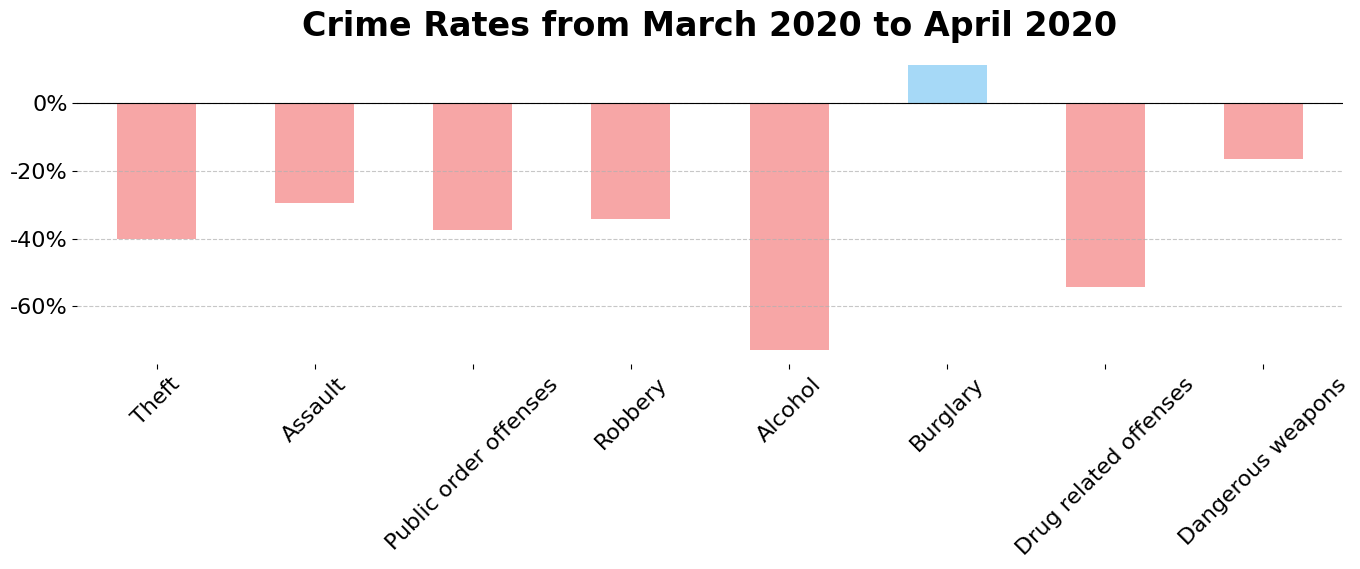
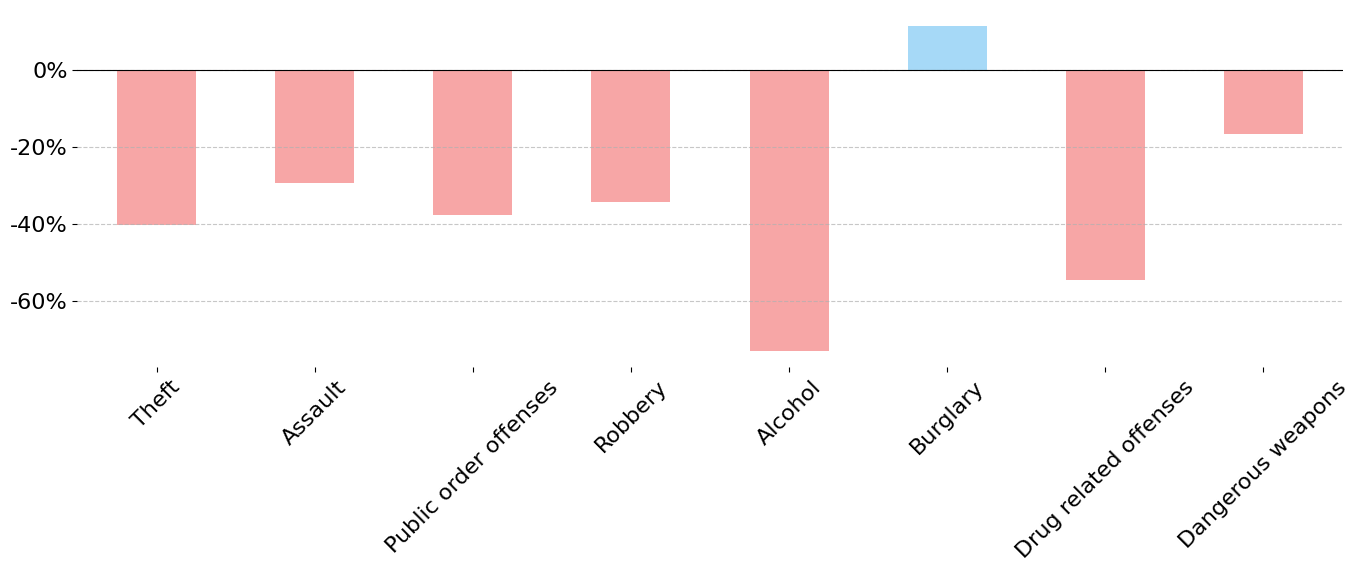
updates

diff --git a/assets/images/timeline/timeline.html b/assets/images/timeline/timeline.html
@@ -142,7 +142,10 @@
             padding-right: 30px;
             text-align: right;
         }
-        
+        div.img-header {
+            margin-bottom: 4px;
+            font-weight: 700;
+        }
         @media all and (max-width: 991px) {
         }
         @media all and (max-width: 768px) {
@@ -241,7 +244,8 @@
 				<div class="timeline-text d-flex-2">
 					<span>
 						<h6>April</h6> - The lockdown has an immediate impact on the crime rate in the city. Most criminal categories drop by 30 to 70 percent, while there is a small increase in burglaries.
-                        <div class="img" style="margin-top:20px"><img src="/assets/images/march-april.png"></div>
+                        <div class="img-header" style="margin-top:20px">Crime Rates from March 2020 to April 2020</div>
+                        <div class="img"><img src="/assets/images/march-april.png"></div>
 					</span>
 					<div class="t-square"></div>
 				</div>
@@ -262,7 +266,7 @@
 				<div class="timeline-blank">
                     <div style="padding-left:30px">
                         <span>
-                            <strong>Burglaries: May 20 to July 10 2020</strong>
+                            <div class="img-header">Burglaries: May 20 to July 10 2020</div>
                             <div class="img"><iframe id="crimeTimeline" src="/assets/maps/burglary_map.html" style="" ></iframe></div>
                             Burglaries - Text text text
                         </span>
@@ -270,7 +274,7 @@
                 </div>
 				<div class="timeline-text d-flex-2">
                     <span>
-                        <strong>Public Order Offenses: May 20 to July 10 2020</strong>
+                        <div class="img-header">Public Order Offenses: May 20 to July 10 2020</div>
                         <div class="img"><iframe id="crimeTimeline" src="/assets/maps/public_order_offenses_map.html" style="" ></iframe></div>
                         Public order offenses - Text text text
                     </span>
